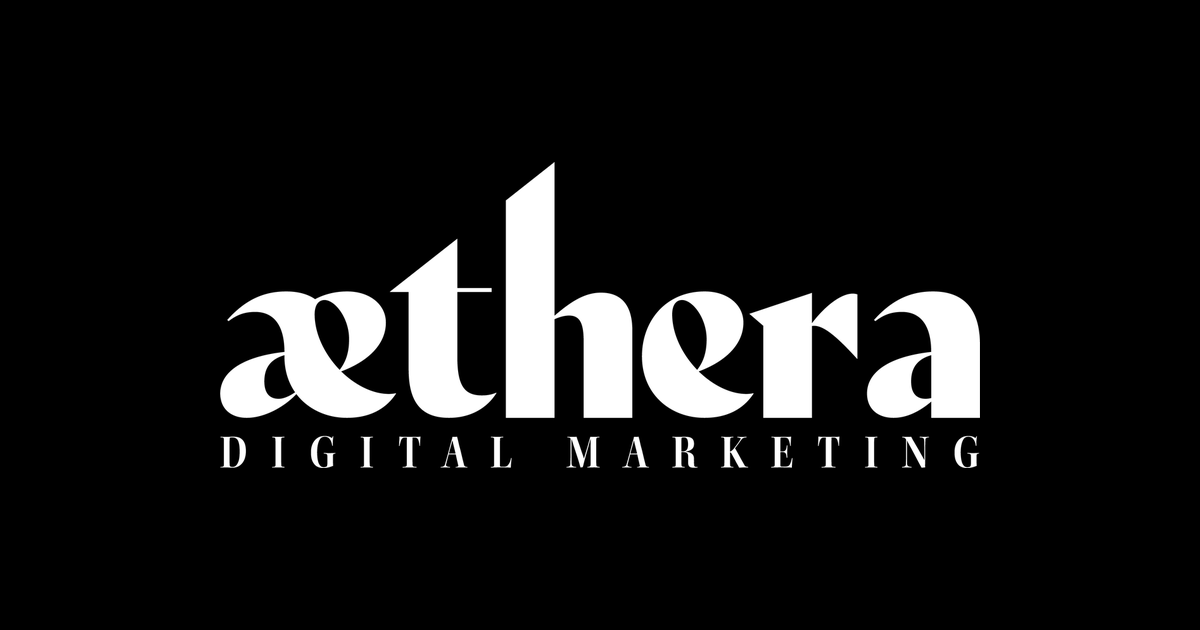
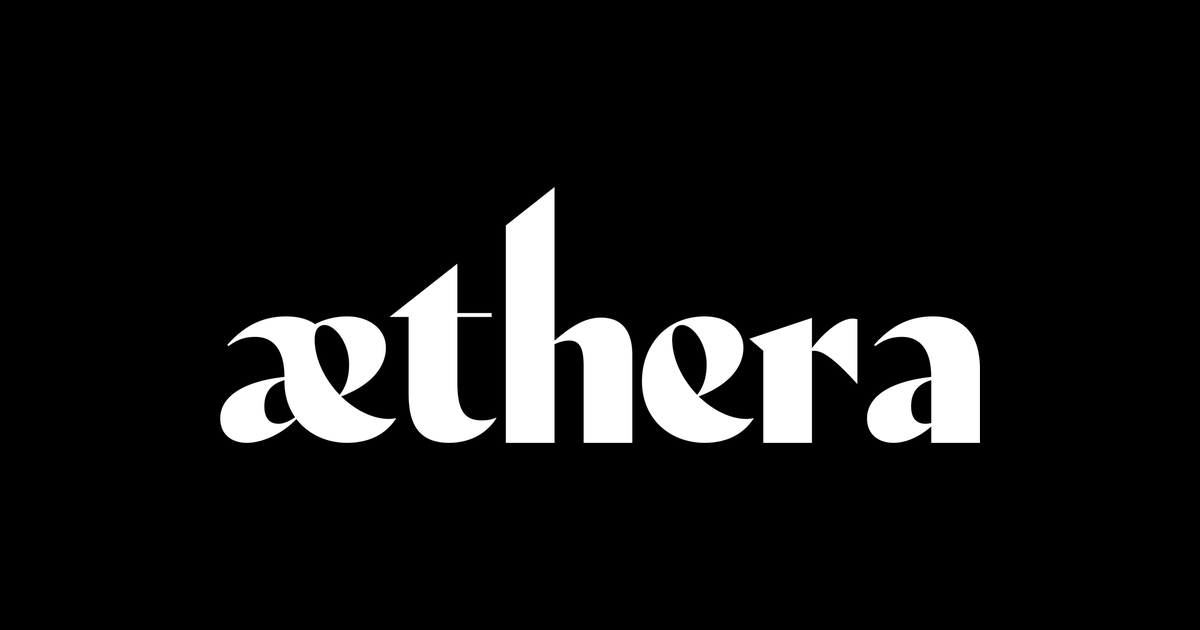
Use the plain Aethera wordmark everywhere
- Report PDF header uses the wordmark without "Digital Marketing"
- Link preview image (og-image.png) redrawn with the plain wordmark
- Removed wordmark-full.png so it isn't used again

Changed region(s): [[0.185, 0.3921, 0.8325, 0.754], [0.4008, 0.2714, 0.4625, 0.3619]]

diff --git a/public/assets/desk.css b/public/assets/desk.css
@@ -206,7 +206,7 @@ select.st option{background:#121217;color:#fff;text-transform:none}
   .pr-foot{position:fixed;left:.65in;right:.65in;bottom:.35in;display:flex;justify-content:space-between;font-size:7.5pt;letter-spacing:.14em;text-transform:uppercase;color:#8E8E99;
     border-top:1px solid rgba(255,255,255,.12);padding-top:8px}
   .pr-head{display:flex;justify-content:space-between;align-items:center;padding-bottom:18px;border-bottom:1px solid rgba(255,255,255,.14)}
-  .pr-head img{height:34px;width:auto;display:block}
+  .pr-head img{height:28px;width:auto;display:block}
   .pr-meta{text-align:right;font-size:7.5pt;letter-spacing:.16em;text-transform:uppercase;color:#8E8E99;line-height:1.5}
   .pr-meta b{display:block;color:#fff;font-weight:600;font-size:9pt;letter-spacing:.12em}
   .pr-title{padding:30px 0 22px}

diff --git a/public/assets/desk.js b/public/assets/desk.js
@@ -885,7 +885,7 @@
       h('div', { class: 'pr-bg' }),
       h('div', { class: 'pr-foot' }, h('span', { text: 'Aethera Digital · aetheradigital.com' }), h('span', { text: cname + ' · ' + monthName(rp.period) })),
       h('header', { class: 'pr-head' },
-        h('img', { src: '/assets/wordmark-full.png', alt: 'Aethera Digital' }),
+        h('img', { src: '/assets/wordmark.png', alt: 'Aethera Digital' }),
         h('div', { class: 'pr-meta' }, h('span', { text: 'Monthly Performance Report' }), h('b', { text: monthName(rp.period) }))),
       h('section', { class: 'pr-title' },
         h('p', { class: 'pr-eyebrow', text: 'Prepared for' }),
